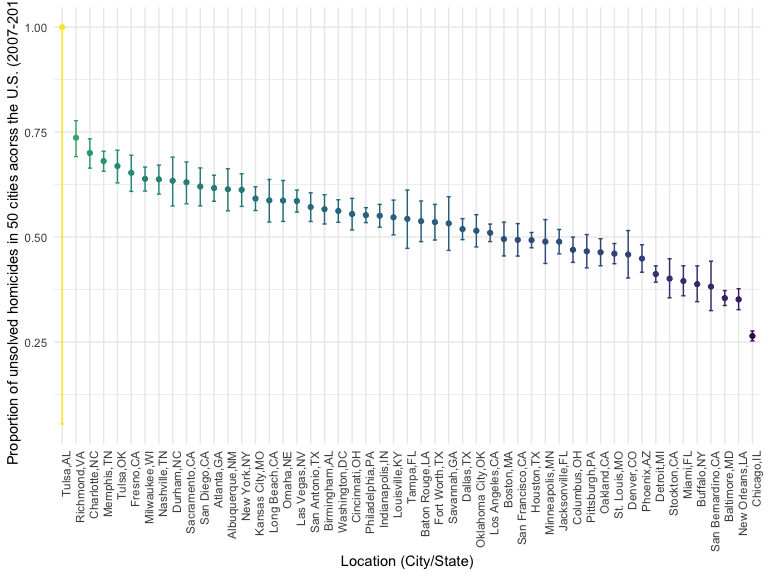
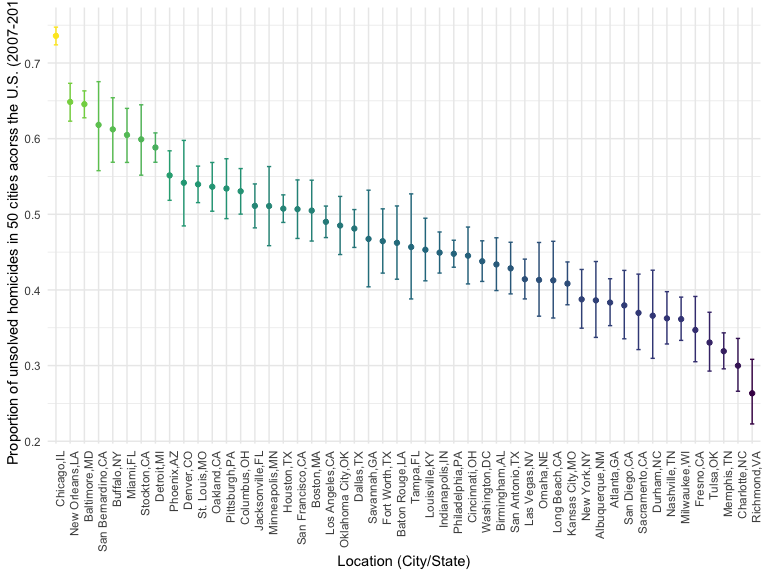
corrected a problem

diff --git a/p8105_hw5_hm2947.md b/p8105_hw5_hm2947.md
@@ -211,34 +211,53 @@ homicide_raw <- read_csv("https://raw.githubusercontent.com/washingtonpost/data-
   mutate(
     state = toupper(state),
     city_state = str_c(city, state, sep = ",") %>% 
-    str_replace("Tulsa, AL", "Tulsa, OK"))
-    
+    str_replace("Tulsa,AL","Tulsa,OK"))
+homicide_raw
+```
+
+    ## # A tibble: 52,179 × 13
+    ##    uid   repor…¹ victi…² victi…³ victi…⁴ victi…⁵ victi…⁶ city  state   lat   lon
+    ##    <chr>   <dbl> <chr>   <chr>   <chr>   <chr>   <chr>   <chr> <chr> <dbl> <dbl>
+    ##  1 Alb-…  2.01e7 GARCIA  JUAN    Hispan… 78      Male    Albu… NM     35.1 -107.
+    ##  2 Alb-…  2.01e7 MONTOYA CAMERON Hispan… 17      Male    Albu… NM     35.1 -107.
+    ##  3 Alb-…  2.01e7 SATTER… VIVIANA White   15      Female  Albu… NM     35.1 -107.
+    ##  4 Alb-…  2.01e7 MENDIO… CARLOS  Hispan… 32      Male    Albu… NM     35.1 -107.
+    ##  5 Alb-…  2.01e7 MULA    VIVIAN  White   72      Female  Albu… NM     35.1 -107.
+    ##  6 Alb-…  2.01e7 BOOK    GERALD… White   91      Female  Albu… NM     35.2 -107.
+    ##  7 Alb-…  2.01e7 MALDON… DAVID   Hispan… 52      Male    Albu… NM     35.1 -107.
+    ##  8 Alb-…  2.01e7 MALDON… CONNIE  Hispan… 52      Female  Albu… NM     35.1 -107.
+    ##  9 Alb-…  2.01e7 MARTIN… GUSTAVO White   56      Male    Albu… NM     35.1 -107.
+    ## 10 Alb-…  2.01e7 HERRERA ISRAEL  Hispan… 43      Male    Albu… NM     35.1 -107.
+    ## # … with 52,169 more rows, 2 more variables: disposition <chr>,
+    ## #   city_state <chr>, and abbreviated variable names ¹reported_date,
+    ## #   ²victim_last, ³victim_first, ⁴victim_race, ⁵victim_age, ⁶victim_sex
+
+``` r
 homicide_tidy = 
   homicide_raw %>% 
   mutate(
-    status = ifelse(
-    disposition == "Closed without arrest" | disposition == "Open/No arrest", "Solved", "Unsolved" )) %>% 
+    status = ifelse(disposition != "Closed by arrest", "unsolved", "solved")) %>% 
   group_by(city_state) %>% 
-  summarise(n_unsolved = sum(status == "Unsolved"),
+  summarise(n_unsolved = sum(status == "unsolved"),
             n_total = n())
 
 homicide_tidy
 ```
 
-    ## # A tibble: 51 × 3
+    ## # A tibble: 50 × 3
     ##    city_state     n_unsolved n_total
     ##    <chr>               <int>   <int>
-    ##  1 Albuquerque,NM        232     378
-    ##  2 Atlanta,GA            600     973
-    ##  3 Baltimore,MD         1002    2827
-    ##  4 Baton Rouge,LA        228     424
-    ##  5 Birmingham,AL         453     800
-    ##  6 Boston,MA             304     614
-    ##  7 Buffalo,NY            202     521
-    ##  8 Charlotte,NC          481     687
-    ##  9 Chicago,IL           1462    5535
-    ## 10 Cincinnati,OH         385     694
-    ## # … with 41 more rows
+    ##  1 Albuquerque,NM        146     378
+    ##  2 Atlanta,GA            373     973
+    ##  3 Baltimore,MD         1825    2827
+    ##  4 Baton Rouge,LA        196     424
+    ##  5 Birmingham,AL         347     800
+    ##  6 Boston,MA             310     614
+    ##  7 Buffalo,NY            319     521
+    ##  8 Charlotte,NC          206     687
+    ##  9 Chicago,IL           4073    5535
+    ## 10 Cincinnati,OH         309     694
+    ## # … with 40 more rows
 
 There are 52179 observations of 13 variables regarding the homicide in
 50 cities from different states across the U.S. Variables include
@@ -273,7 +292,7 @@ baltimore_prop
     ## # A tibble: 1 × 3
     ##   estimate lower_limit upper_limit
     ##      <dbl>       <dbl>       <dbl>
-    ## 1    0.354       0.337       0.372
+    ## 1    0.646       0.628       0.663
 
 ### Every city prop test estimate
 
@@ -291,22 +310,22 @@ homicide_prop =
 homicide_prop
 ```
 
-    ## # A tibble: 51 × 4
+    ## # A tibble: 50 × 4
     ##    city_state     estimate lower_limit upper_limit
     ##    <chr>             <dbl>       <dbl>       <dbl>
-    ##  1 Albuquerque,NM    0.614       0.562       0.663
-    ##  2 Atlanta,GA        0.617       0.585       0.647
-    ##  3 Baltimore,MD      0.354       0.337       0.372
-    ##  4 Baton Rouge,LA    0.538       0.489       0.586
-    ##  5 Birmingham,AL     0.566       0.531       0.601
-    ##  6 Boston,MA         0.495       0.455       0.535
-    ##  7 Buffalo,NY        0.388       0.346       0.431
-    ##  8 Charlotte,NC      0.700       0.664       0.734
-    ##  9 Chicago,IL        0.264       0.253       0.276
-    ## 10 Cincinnati,OH     0.555       0.517       0.592
-    ## # … with 41 more rows
+    ##  1 Albuquerque,NM    0.386       0.337       0.438
+    ##  2 Atlanta,GA        0.383       0.353       0.415
+    ##  3 Baltimore,MD      0.646       0.628       0.663
+    ##  4 Baton Rouge,LA    0.462       0.414       0.511
+    ##  5 Birmingham,AL     0.434       0.399       0.469
+    ##  6 Boston,MA         0.505       0.465       0.545
+    ##  7 Buffalo,NY        0.612       0.569       0.654
+    ##  8 Charlotte,NC      0.300       0.266       0.336
+    ##  9 Chicago,IL        0.736       0.724       0.747
+    ## 10 Cincinnati,OH     0.445       0.408       0.483
+    ## # … with 40 more rows
 
-The resulting dataframe `homicide_prop` contains 51 results of all 50
+The resulting dataframe `homicide_prop` contains 50 results of all 50
 cities which contains the estimates and confidence intervals.
 
 ### Creating a plot to show the estimates and CIs for each city
